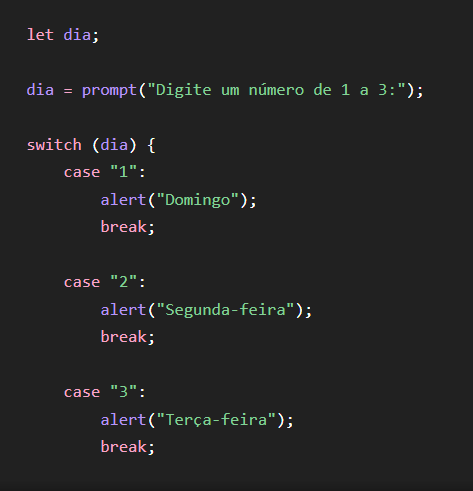
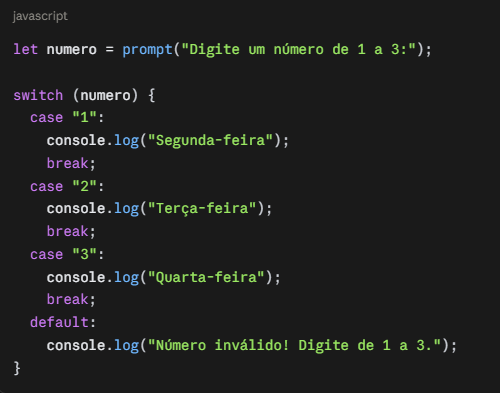
Terminada a indentação do paginaCodicional

Changed region(s): [[0.0296, 0.0305, 0.9175, 0.9466], [0.0888, 0.3969, 0.1776, 0.4275], [0.0296, 0.916, 0.0592, 0.9466]]

diff --git a/estruraCondicional.html b/estruraCondicional.html
@@ -37,7 +37,7 @@
     </div>
 
     <!-- a tag section define uma seção dos conteúdos de uma página. -->
-   <section class="conteudo-condicional">
+    <section class="conteudo-condicional">
     <nav>
         <a href="#" class="opcao-lateral" onclick="mostrarConteudo('se')">Estrutura Se</a>
         <br><a href="#" class="opcao-lateral" onclick="mostrarConteudo('caso')">Estrutura Caso</a>
@@ -48,10 +48,8 @@
         <!-- Conteúdo: Estrutura Se -->
         <div id="conteudo-se" class="conteudo-item" data-tipo="se">
 
-           <h3>Estrutura Se</h3>
-
-            <p>Estrutura Condicional Se (if)
-
+            <h3>Estrutura Se</h3>
+            <p>Estrutura Condicional Se (if).
                 A estrutura condicional Se, representada em JavaScript pelo comando if, 
                 é utilizada quando o programa precisa tomar uma decisão com base em uma condição.
                 O programa verifica se uma determinada expressão é verdadeira ou falsa e,
@@ -94,13 +92,19 @@
 
                 <br><button onclick="alternarCodigo(this)">Ver código</button>
 
-                <pre class="bloco-codigo" style="display: none;"><code>let nota; 
-                    idade = parseInt(idade);
-                    if (idade >= 18) {
-                        alert("Você é maior de idade.");
-                    } else {
-                        alert("Você é menor de idade.");
-                    }</code></pre>
+                <pre class="bloco-codigo" style="display: none;">
+                    <code>
+                        let idade = prompt("Por favor, digite a sua idade:"); 
+
+                        idade = parseInt(idade);
+
+                        if (idade >= 18) {
+                            alert("Você é maior de idade.");
+                        } else {
+                            alert("Você é menor de idade.");
+                        }
+                    </code>
+                </pre>
         
                 <h4>Exemplo 02</h4>
 
@@ -118,11 +122,13 @@
                 <img src="imgs/imgExemploSeNota.png" alt="imagem de exemplo que mostra a estrutura SE...SENAO">
 
                 <br><button onclick="alternarCodigo(this)">Ver código</button>
-                <pre class="bloco-codigo" style="display: none;"><code>let nota = prompt("Digite a nota do aluno (de 0 a 10): ");
+                <pre class="bloco-codigo" style="display: none;"><code>
+                    let nota = prompt("Digite a nota do aluno (de 0 a 10): ");
+
                     nota = parseFloat(nota);
 
                     if (nota >= 7.0) {
-                        alert("Aluno aprovado! Paraben.");
+                        alert("Aluno aprovado! Parabéns.");
                     } else {
                         alert("Aluno em recuperação. Precia etudar mai. ");
                     }</code></pre>
@@ -194,10 +200,13 @@
                 <img src="imgs/imgExemploCasoDia.png" alt="">
 
                 <br><button onclick="alternarCodigo(this)">Ver código</button>
-                <pre class="bloco-codigo" style="display: none;"><code>let dia;
+                <pre class="bloco-codigo" style="display: none;">
+                    <code>
+                        let numero;
 
-                    dia = prompt("Digite um número de 1 a 3:");
-                    switch (dia) {
+                        dia = prompt("Digite um número de 1 a 3:");
+
+                        switch (dia) {
                         case "1":
                             alert("Domingo");
                             break;
@@ -211,57 +220,78 @@
                             break;
 
                         default:
-                            alert("Dia inválido");}</code></pre>
+                            alert("Dia inválido");}
+                    </code>
+                </pre>
             </div>
 
-                <h4>Exemplo 02</h4>
-                <p>Neste programa, a variável opcao é criada inicialmente sem receber um valor. Em seguida,
-                    o comando prompt() solicita que o usuário digite uma opção entre 1, 2 ou 3.
-                    Depois que o usuário informa sua escolha, a estrutura switch verifica o valor digitado
-                    e compara com cada uma das opções disponíveis.
-                    <br><br>Se o usuário digitar 1, o programa informa 
-                    "Estruturas Condicionais". 
-                    <br>Se digitar 2, será exibida a mensagem "Estruturas de Repetição".
-                    <br>Caso digite 3, o programa mostrará "Vetores".
-                    <br><br>aaaaaaaaaaaaaaaaaaaaaaaaaaaaApós executar a opção correspondente, o comando break encerra aquele caso,
-                    evitando que os próximos casos sejam executados. Caso o usuário digite um valor diferente
-                    de 1, 2 ou 3, o default será executado e mostrará a mensagem "Opção inválida".
-                    Dessa forma, o programa utiliza a estrutura condicional Caso (switch) para identificar
-                    a opção escolhida pelo usuário e executar uma ação diferente para cada escolha.
-                </p>
+            <h4>Exemplo 02</h4>
+            <p>Neste programa, a variável opcao é criada inicialmente sem receber um valor. Em seguida,
+                o comando prompt() solicita que o usuário digite uma opção entre 1, 2 ou 3.
+                Depois que o usuário informa sua escolha, a estrutura switch verifica o valor digitado
+                e compara com cada uma das opções disponíveis.
+                <br><br>Se o usuário digitar 1, o programa informa 
+                "Estruturas Condicionais". 
+                <br>Se digitar 2, será exibida a mensagem "Estruturas de Repetição".
+                <br>Caso digite 3, o programa mostrará "Vetores".
+                <br><br>aaaaaaaaaaaaaaaaaaaaaaaaaaaaApós executar a opção correspondente, o comando break encerra aquele caso,
+                evitando que os próximos casos sejam executados. Caso o usuário digite um valor diferente
+                de 1, 2 ou 3, o default será executado e mostrará a mensagem "Opção inválida".
+                Dessa forma, o programa utiliza a estrutura condicional Caso (switch) para identificar
+                a opção escolhida pelo usuário e executar uma ação diferente para cada escolha.
+            </p>
 
-                <img src="imgs/imgExxemploCaoOpcao.png" alt="">
+            <img src="imgs/imgExemploCasoOpcao.png" alt="">
 
-                <br><button onclick="alternarCodigo(this)">Ver código</button>
-                <pre class="bloco-codigo" style="display: none;"><code>let opcao;
+            <br><button onclick="alternarCodigo(this)">Ver código</button>
+            <pre class="bloco-codigo" style="display: none;">
+                <code>
+                    let opcao;
+
                     opcao = prompt("Digite uma opção: 1, 2 ou 3");
+
                     switch (opcao) {
-                        case "1":
-                            alert("Estruturas Condicionais");
-                            break;
+                    case "1":
+                        alert("Estruturas Condicionais");
+                        break;
 
-                        case "2":
-                            alert("Estruturas de Repetição");
-                            break;
+                    case "2":
+                        alert("Estruturas de Repetição");
+                        break;
 
-                        case "3":
-                            alert("Vetores");
-                               break;
+                    case "3":
+                        alert("Vetores");
+                        break;
 
-                        default:
-                            alert("Opção inválida")};</code></pre>
+                    default:
+                    alert("Opção inválida")};
+                </code>
+            </pre>
 
-                <div class="subsecao" data-secao="atividade">
-
-                    <h4>atividade 01</h4>
-                    <p> atividade</p>
-
-                    <h4>atividade 02</h4>
-                    <p>atividade</p>
-                </div> 
+            <h4>Atividade 01 — Dia da semana</h4>
+            <p>Digite um número inteiro de ( 1 a 3 ) e clique em "Verificar" para saber qual dia da semana corresponde.</p>
+                
+            <div class="subsecao" data-secao="atividade">
+                <div class="atividade-caixa">
+                    <label for="inputDiaSemana">Dia da semana: </label>
+                    <input type="number" id="inputDiaSemana" placeholder="Digite um número ">
+                    <button onclick="verificarDiaSemana()">Verificar</button>
+                    <p id="resultadoSemana" class="resultado"></p>
+                </div>
+                
+                <h4>Atividade 02 — Aprovação do aluno</h4>
+                <p>Digite um número inteiro de ( 1 a 3 ) e clique em "Verificar" para saber qual opção ela corresponde.</p>
+                
+                <div class="atividade-caixa">
+                    <label for="inputOpcao">Nota: </label>
+                    <input type="number" id="inputOpcao" step="0.1" placeholder="Digite um número ">
+                    <button onclick="verificarOpcao()">Verificar</button>
+                    <p id="resultadoOpcao" class="resultado"></p>
+                </div>
             </div>
-    </div>
-</section>
+        </div>
+    </section>
+
 <!-- botao que volta ao topo da poagina -->
 <button id="btnTopo" onclick="voltarAoTopo()" title="Voltar ao topo">↑</button>
 
@@ -325,6 +355,47 @@
             resultado.textContent = 'Aluno aprovado! Parabéns.';
         } else {
             resultado.textContent = 'Aluno em recuperação. Precisa estudar mais.';
+        }
+    }
+    function verificarDiaSemana(){
+        let dia = document.getElementById('inputDiaSemana').value;
+        dia = parseInt(dia);
+
+        const resultado = document.getElementById('resultadoSemana');
+
+        switch (dia) {
+            case 1:
+                resultado.textContent = 'Domingo';
+                break;
+            case 2:
+                resultado.textContent = 'Segunda-feira';
+                break;
+            case 3:
+                resultado.textContent = 'Terça-feira';
+                break;
+            default:
+                resultado.textContent = 'Dia inválido. Digite um número de 1 a 3.';
+        }
+    }
+
+    function verificarOpcao(){
+        let opcao = document.getElementById('inputOpcao').value;
+        opcao = parseInt(opcao);
+
+        const resultado = document.getElementById('resultadoOpcao');
+
+        switch (opcao) {
+            case 1:
+                resultado.textContent = 'Estruturas Condicionais';
+                break;
+            case 2:
+                resultado.textContent = 'Estruturas de Repetição';
+                break;
+            case 3:
+                resultado.textContent = 'Vetores';
+                break;
+            default:
+                resultado.textContent = 'Opção inválida. Digite um número de 1 a 3.';
         }
     }
 

diff --git a/css/site.css b/css/site.css
@@ -68,7 +68,7 @@ nav .opcao{
     margin: 0 2%;
     margin: 0 2%;
     font-size: 26px;
-    border-radius: 20px;
+    border-radius: 12px;
 }
 nav .opcao-lateral{
     float: left;
@@ -134,6 +134,8 @@ p {
 
 .painel-lateral {
     flex: 1;
+    width: 90%;
+    padding: 50px;
 }
 
 .conteudo-item {
@@ -149,10 +151,11 @@ p {
     background-color: #b5b3b3;
     color: #000000;
     padding: 15px;
-    border-radius: 6px;
-    overflow-x: auto;
+    border-radius: 12px;
+    overflow-x: auto; 
     font-family: 'Courier New', monospace;
     margin-top: 10px;
+    width:  80% 50px ;
 }
 
 /*ass que manipula atividades*/
@@ -168,7 +171,7 @@ p {
     padding: 6px 10px;
     border: 1px solid #ccc;
     border-radius: 4px;
-    width: 150px;
+    width: 150px;   
 }
 
 
